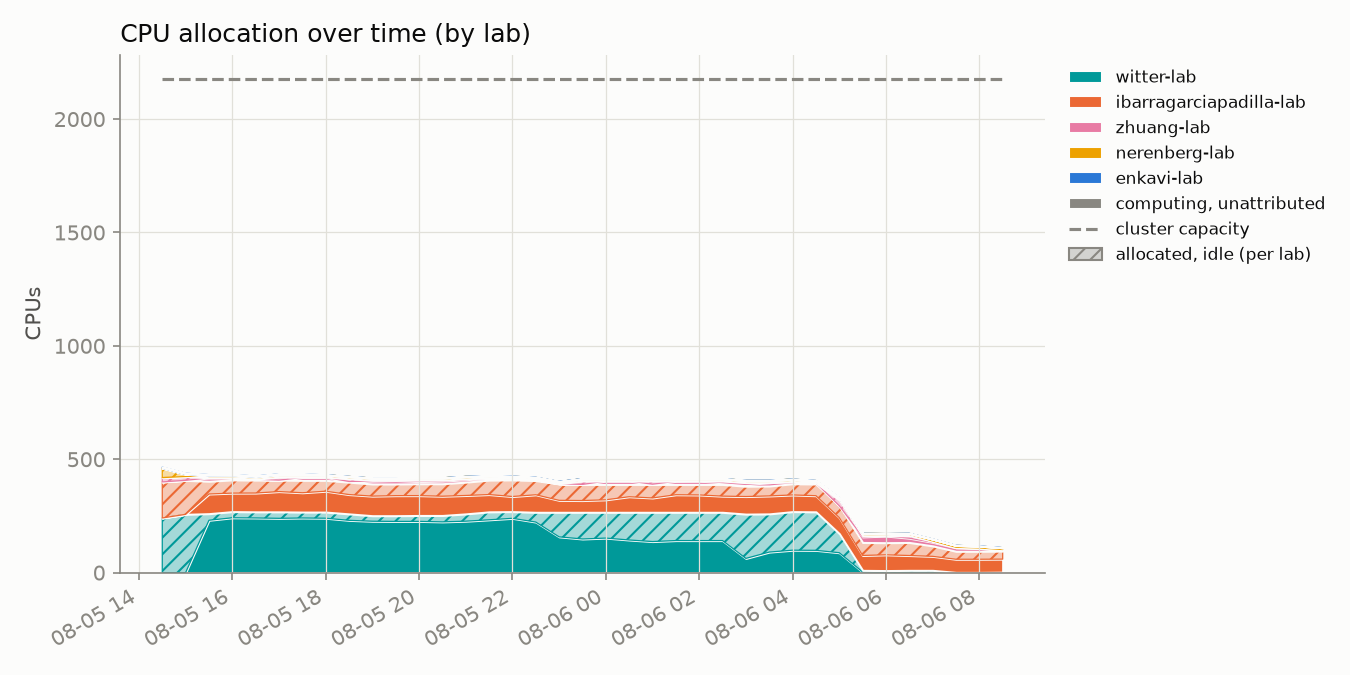
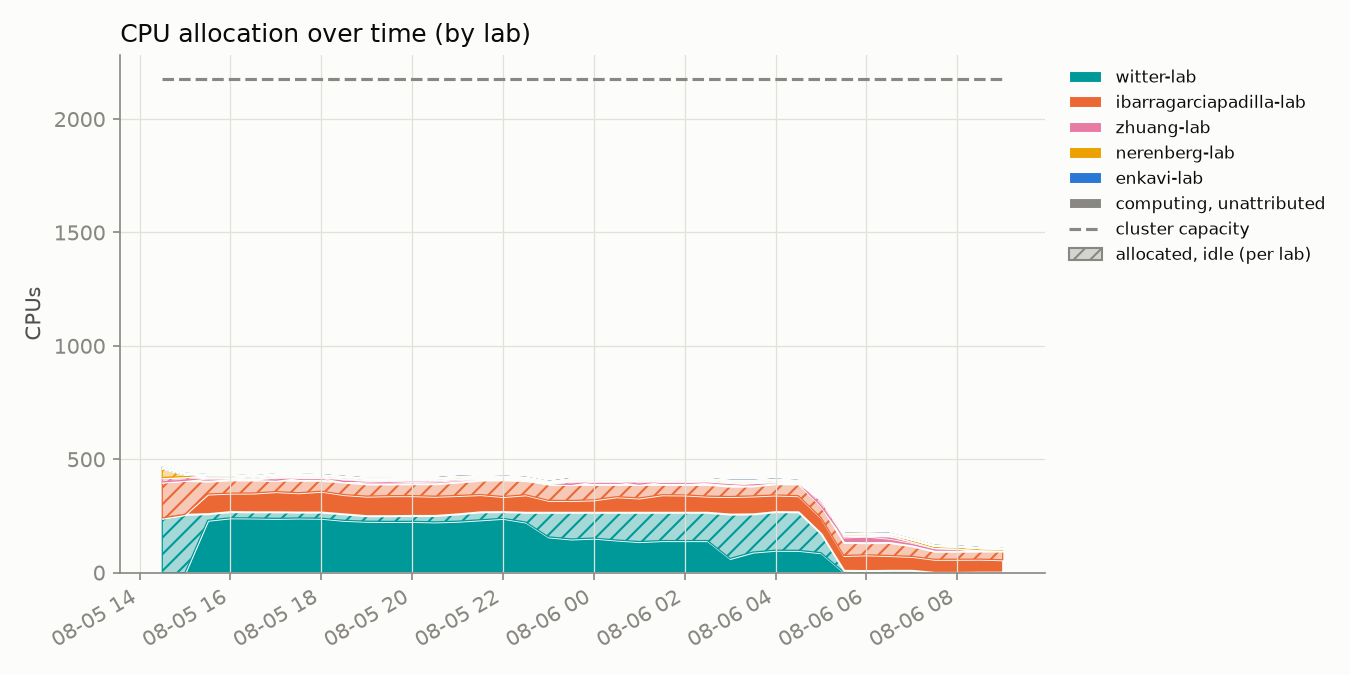
update 2026-08-06T09:00:01-07:00

diff --git a/README.md b/README.md
@@ -2,8 +2,8 @@
 
 Automated GPU/CPU/queue utilization tracker for `hopper.cluster`, updated every 30 minutes by cron. Usernames are anonymized to a stable per-account pseudonym; lab names are real.
 
-Last updated: 2026-08-06T08:30:12-07:00
-Samples: 37 queue snapshots, 37 GPU snapshots
+Last updated: 2026-08-06T09:00:12-07:00
+Samples: 38 queue snapshots, 38 GPU snapshots
 
 ## Resources
 
@@ -16,8 +16,8 @@ Samples: 37 queue snapshots, 37 GPU snapshots
 
 ## Headline
 
-- **75.3%** of the cluster's 60 GPUs allocated, averaged across all samples
-- **37.9%** average `nvidia-smi` utilization *when* a GPU is allocated to a job
+- **73.6%** of the cluster's 60 GPUs allocated, averaged across all samples
+- **37.8%** average `nvidia-smi` utilization *when* a GPU is allocated to a job
 - **81.2%** average cgroup CPU utilization *when* a CPU is allocated to a job
 
 ## Per lab / per user
@@ -25,13 +25,13 @@ Samples: 37 queue snapshots, 37 GPU snapshots
 <table>
 <tr><th>Lab</th><th>User</th><th align='right'>GPU-hours allocated</th><th align='right'>CPU-hours allocated</th><th align='right'>GPU utilization</th></tr>
 <tr style='background-color:#d8efef'><td>witter-lab</td><td>user-d58f5a15</td><td align='right'>467.5</td><td align='right'>3740.0</td><td align='right'>9%</td></tr>
-<tr style='background-color:#fbebf1'><td>zhuang-lab</td><td>user-0db9ced0</td><td align='right'>269.5</td><td align='right'>269.5</td><td align='right'>47%</td></tr>
-<tr style='background-color:#d8efef'><td>witter-lab</td><td>user-554c620c</td><td align='right'>62.0</td><td align='right'>170.5</td><td align='right'>72%</td></tr>
-<tr style='background-color:#fcf0d8'><td>nerenberg-lab</td><td>user-6bb5f332</td><td align='right'>37.0</td><td align='right'>185.0</td><td align='right'>71%</td></tr>
-<tr style='background-color:#dfeaf8'><td>enkavi-lab</td><td>user-c21bdaa4</td><td align='right'>0.0</td><td align='right'>14.0</td><td align='right'>—</td></tr>
+<tr style='background-color:#fbebf1'><td>zhuang-lab</td><td>user-0db9ced0</td><td align='right'>271.0</td><td align='right'>271.0</td><td align='right'>46%</td></tr>
+<tr style='background-color:#d8efef'><td>witter-lab</td><td>user-554c620c</td><td align='right'>63.0</td><td align='right'>171.5</td><td align='right'>71%</td></tr>
+<tr style='background-color:#fcf0d8'><td>nerenberg-lab</td><td>user-6bb5f332</td><td align='right'>38.0</td><td align='right'>190.0</td><td align='right'>71%</td></tr>
+<tr style='background-color:#fce8e0'><td>ibarragarciapadilla-lab</td><td>user-3cfc41a3</td><td align='right'>0.0</td><td align='right'>2212.5</td><td align='right'>—</td></tr>
+<tr style='background-color:#fce8e0'><td>ibarragarciapadilla-lab</td><td>user-eec7ffae</td><td align='right'>0.0</td><td align='right'>218.5</td><td align='right'>—</td></tr>
 <tr style='background-color:#fcf0d8'><td>nerenberg-lab</td><td>user-b12dc074</td><td align='right'>0.0</td><td align='right'>16.0</td><td align='right'>—</td></tr>
-<tr style='background-color:#fce8e0'><td>ibarragarciapadilla-lab</td><td>user-eec7ffae</td><td align='right'>0.0</td><td align='right'>217.0</td><td align='right'>—</td></tr>
-<tr style='background-color:#fce8e0'><td>ibarragarciapadilla-lab</td><td>user-3cfc41a3</td><td align='right'>0.0</td><td align='right'>2167.5</td><td align='right'>—</td></tr>
+<tr style='background-color:#dfeaf8'><td>enkavi-lab</td><td>user-c21bdaa4</td><td align='right'>0.0</td><td align='right'>14.0</td><td align='right'>—</td></tr>
 </table>
 
 (Row background is each lab's chart color, lightened, matching the charts above. GitHub strips inline CSS, so this table renders plain on github.com; the tint shows in renderers that keep inline styles, e.g. a local Markdown preview.)
@@ -44,7 +44,7 @@ Samples: 37 queue snapshots, 37 GPU snapshots
 
 Both charts share the same structure: solid color is *utilized* by lab, translucent + hatched (same color) on top of it is that lab's *allocated but idle*, solid gray above that is usage that couldn't be traced to a job or lab, and the dashed line is total cluster capacity - any gap above it is unallocated headroom. CPU utilization comes from cgroup v2 accounting (`cpu.stat`'s `usage_usec`, cumulative CPU time per job) read directly off each node, since `sstat` returns nothing usable for this on this cluster.
 
-Attribution is cross-referenced two ways: `nvidia-smi`'s own process listing (misses containerized/namespaced processes), backfilled from Slurm's GPU-to-job binding record (`scontrol show job -dd`). The scontrol fallback attributed **1286** GPU readings this run that the process-listing path missed.
+Attribution is cross-referenced two ways: `nvidia-smi`'s own process listing (misses containerized/namespaced processes), backfilled from Slurm's GPU-to-job binding record (`scontrol show job -dd`). The scontrol fallback attributed **1291** GPU readings this run that the process-listing path missed.
 
 ## Queue
 
@@ -56,7 +56,7 @@ Only jobs Slurm is actively scoring for scheduling (has a `sprio` priority) coun
 
 ![CPU usage vs GPU usage, decayed](assets/cpu_gpu_usage.png)
 
-Each point is one user at one snapshot (n=225), not averaged over time, to show how a user's position moves rather than collapsing it to a single number. Both axes are usage decayed with Slurm's own ~7-day fairshare half-life (`PriorityDecayHalfLife` on this cluster), not a lifetime total or a per-day average.
+Each point is one user at one snapshot (n=230), not averaged over time, to show how a user's position moves rather than collapsing it to a single number. Both axes are usage decayed with Slurm's own ~7-day fairshare half-life (`PriorityDecayHalfLife` on this cluster), not a lifetime total or a per-day average.
 
 **CPU usage (x-axis) is essentially what earns priority here; GPU usage (y-axis) is what Slurm could weight the same way but doesn't**: `PriorityWeightTRES` is unset, and partition `main` has no `TRESBillingWeights` configured, so fairshare usage accounting bills by CPU count alone - a job holding 4 GPUs and 8 CPUs accrues the same usage debt as an 8-CPU, no-GPU job. The users worth a second look are in the **upper-left**: low decayed CPU usage (high, unpenalized fairshare priority) paired with high decayed GPU usage.
 
